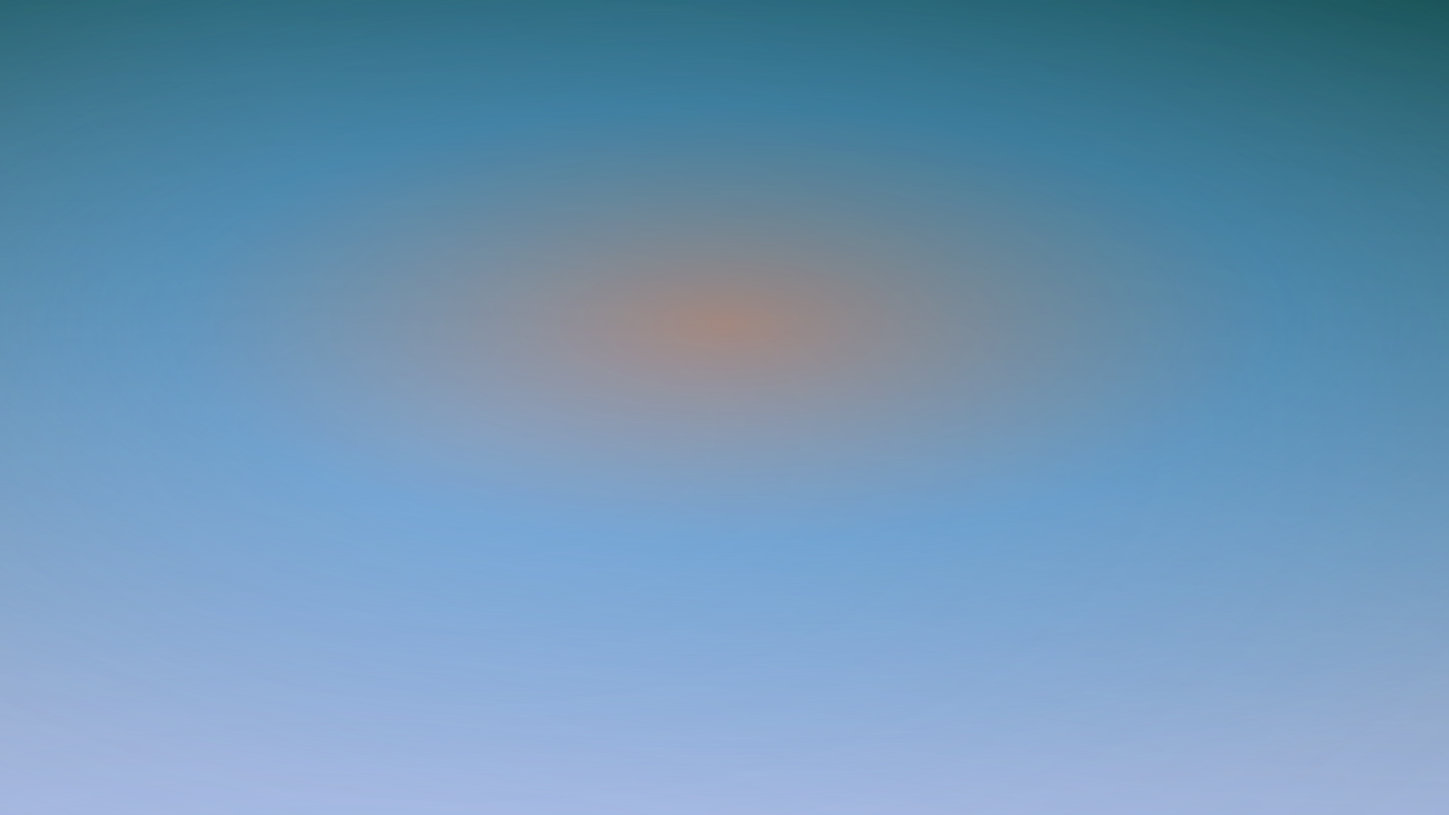
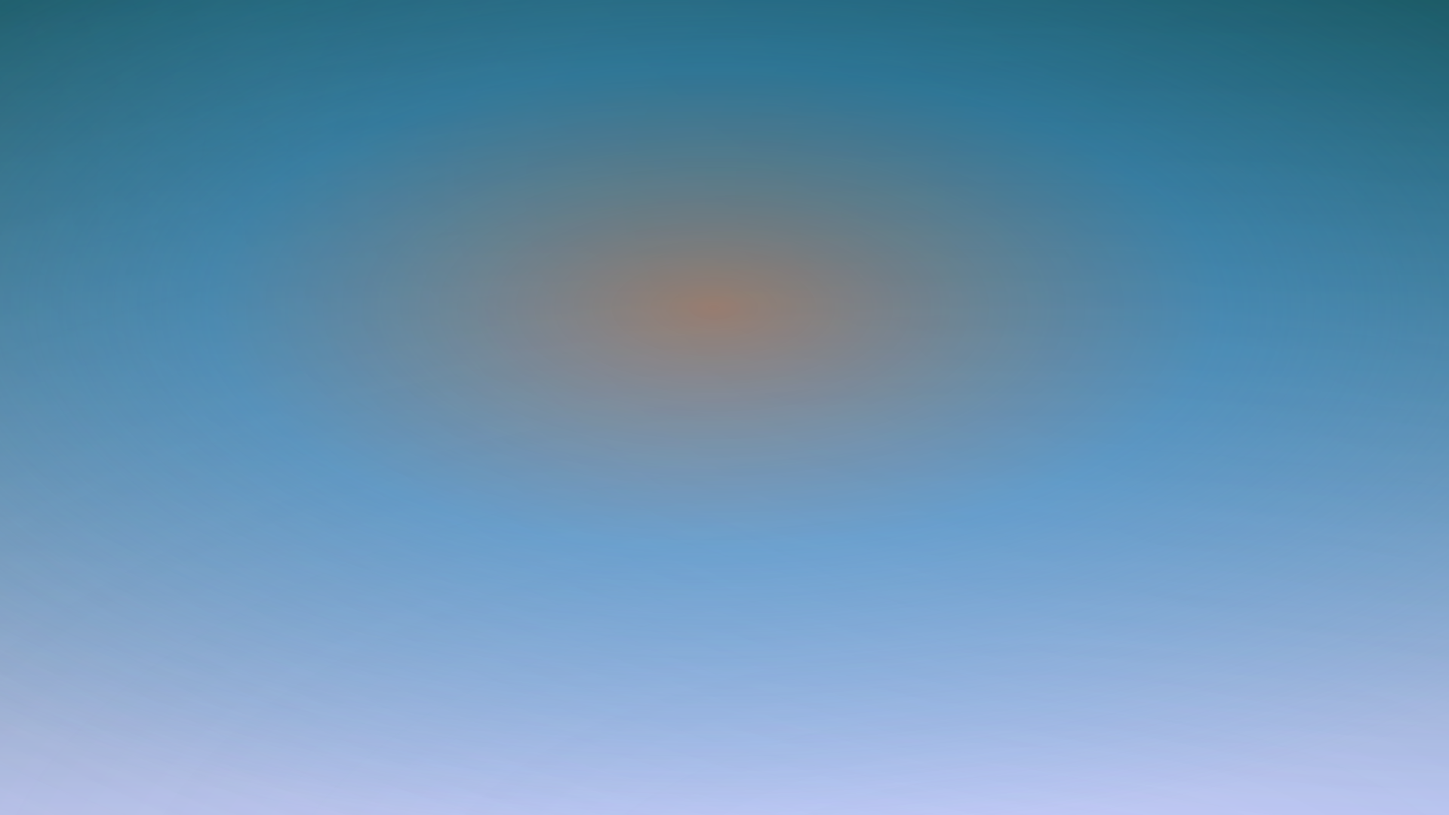
Deploy preview for PR 14 🛫

Changed region(s): [[0.125, 0.3972, 0.3125, 0.55], [0.625, 0.9472, 1.0, 1.0]]

diff --git a/pr-preview/pr-14/posts/lessons-from-flask-in-production/index.html b/pr-preview/pr-14/posts/lessons-from-flask-in-production/index.html
@@ -1,6 +1,6 @@
 <!DOCTYPE html><html lang="en" data-astro-cid-sckkx6r4> <head><!-- Page Metadata --><meta charset="UTF-8"><meta name="viewport" content="width=device-width"><meta name="generator" content="Astro v4.2.4"><meta name="description" content="stefan nowak, software engineer based in London, UK"><link rel="canonical" href="https://stefkn.github.io/me/pr-preview/pr-14/posts/lessons-from-flask-in-production/"><title>Lessons from Flask in production</title><!-- Google Fonts --><link rel="preconnect" href="https://fonts.googleapis.com"><link rel="preconnect" href="https://fonts.gstatic.com" crossorigin><link href="https://fonts.googleapis.com/css2?family=IBM+Plex+Mono:ital,wght@0,100;0,200;0,300;0,400;0,500;0,600;0,700;1,100;1,200;1,300;1,400;1,500;1,600;1,700&family=IBM+Plex+Sans:ital,wght@0,100;0,200;0,300;0,400;0,500;0,600;0,700;1,100;1,200;1,300;1,400;1,500;1,600;1,700&display=swap" rel="stylesheet"><!-- Low Priority Global Metadata --><link rel="icon" type="image/png" href="/me/pr-preview/pr-14/favicon.png"><link rel="sitemap" href="/me/pr-preview/pr-14/sitemap-index.xml"><link rel="alternate" type="application/rss+xml" href="/me/pr-preview/pr-14/rss.xml" title="RSS"><!-- Open Graph / Facebook --><meta property="og:type" content="website"><meta property="og:url" content="https://stefkn.github.io/me/pr-preview/pr-14/posts/lessons-from-flask-in-production/"><meta property="og:title" content="Lessons from Flask in production"><meta property="og:description" content="stefan nowak, software engineer based in London, UK"><meta property="og:image" content="https://stefkn.github.io/me/pr-preview/pr-14/generated/art/lessons-from-flask-in-production.png"><meta property="og:image:alt" content="Lessons from Flask in production"><!-- X/Twitter --><meta property="twitter:card" content="summary_large_image"><meta property="twitter:url" content="https://stefkn.github.io/me/pr-preview/pr-14/posts/lessons-from-flask-in-production/"><meta property="twitter:title" content="Lessons from Flask in production"><meta property="twitter:description" content="stefan nowak, software engineer based in London, UK"><meta property="twitter:image" content="https://stefkn.github.io/me/pr-preview/pr-14/generated/art/lessons-from-flask-in-production.png"><meta name="twitter:image:alt" content="Lessons from Flask in production"><meta name="astro-view-transitions-enabled" content="true"><meta name="astro-view-transitions-fallback" content="animate"><link rel="stylesheet" href="/me/pr-preview/pr-14/_astro/index.VyLwYA5J.css" />
-<link rel="stylesheet" href="/me/pr-preview/pr-14/_astro/_slug_.KOeODvqg.css" /><script type="module" src="/me/pr-preview/pr-14/_astro/hoisted.HxuV51EW.js"></script>
-<script type="module" src="/me/pr-preview/pr-14/_astro/page.Jay7wAFe.js"></script></head> <body data-astro-cid-sckkx6r4> <a id="main-icon-link" href="/me/pr-preview/pr-14/" data-astro-cid-sckkx6r4> <img id="site-icon" src="/me/pr-preview/pr-14/favicon.png" data-astro-cid-sckkx6r4> </a> <div class="navmenu-container" id="nav-menu" data-astro-cid-sckkx6r4> <div data-astro-cid-sckkx6r4> <div id="top-nav-links" class="nav-links" data-astro-cid-sckkx6r4> <a href="/me/pr-preview/pr-14/work" class="nav-link" data-astro-cid-sckkx6r4>work</a> <a href="/me/pr-preview/pr-14/posts" class="nav-link" data-astro-cid-sckkx6r4>posts</a> </div> </div> <button id="theme-toggle" aria-label="Toggle light/dark mode" data-astro-cid-x3pjskd3> <svg id="sun-icon" xmlns="http://www.w3.org/2000/svg" width="24" height="24" viewBox="0 0 24 24" fill="white" stroke="white" stroke-width="2" stroke-linecap="round" stroke-linejoin="round" class="feather feather-sun hidden" data-astro-cid-x3pjskd3><circle cx="12" cy="12" r="5" data-astro-cid-x3pjskd3></circle><line x1="12" y1="1" x2="12" y2="3" data-astro-cid-x3pjskd3></line><line fill="white" x1="12" y1="21" x2="12" y2="23" data-astro-cid-x3pjskd3></line><line x1="4.22" y1="4.22" x2="5.64" y2="5.64" data-astro-cid-x3pjskd3></line><line x1="18.36" y1="18.36" x2="19.78" y2="19.78" data-astro-cid-x3pjskd3></line><line x1="1" y1="12" x2="3" y2="12" data-astro-cid-x3pjskd3></line><line x1="21" y1="12" x2="23" y2="12" data-astro-cid-x3pjskd3></line><line x1="4.22" y1="19.78" x2="5.64" y2="18.36" data-astro-cid-x3pjskd3></line><line x1="18.36" y1="5.64" x2="19.78" y2="4.22" data-astro-cid-x3pjskd3></line></svg> <svg id="moon-icon" xmlns="http://www.w3.org/2000/svg" width="24" height="24" viewBox="0 0 24 24" fill="black" stroke="black" stroke-width="2" stroke-linecap="round" stroke-linejoin="round" class="feather feather-moon hidden" data-astro-cid-x3pjskd3><path d="M21 12.79A9 9 0 1 1 11.21 3 7 7 0 0 0 21 12.79z" data-astro-cid-x3pjskd3></path></svg> </button>    </div>  <div id="section-indicator" aria-hidden="true" data-astro-cid-5o3hoiww> <div class="section-indicator-inner" data-astro-cid-5o3hoiww> <span class="section-indicator-eyebrow" data-astro-cid-5o3hoiww>now reading</span> <span id="section-indicator-text" data-astro-cid-5o3hoiww></span> </div> </div>   <div class="hero-art" data-art-config="{&#34;seed&#34;:1289067675,&#34;width&#34;:1920,&#34;height&#34;:1080,&#34;background&#34;:&#34;#07413a&#34;,&#34;backgroundBottom&#34;:&#34;#d3d1fa&#34;,&#34;accent&#34;:&#34;#f17331&#34;,&#34;palette&#34;:[&#34;#07413a&#34;,&#34;#309be7&#34;,&#34;#d3d1fa&#34;,&#34;#f17331&#34;],&#34;neon&#34;:[&#34;#0096d6&#34;,&#34;#1499ff&#34;,&#34;#529dff&#34;,&#34;#8fb0ff&#34;],&#34;fields&#34;:[{&#34;id&#34;:&#34;f0&#34;,&#34;cx&#34;:1.1003727405332029,&#34;cy&#34;:-0.16896952548995614,&#34;rx&#34;:2.174972215318121,&#34;ry&#34;:1.8729176508262753,&#34;colors&#34;:[&#34;#07413a&#34;,&#34;#309be7&#34;],&#34;opacity&#34;:0.266493626916781,&#34;driftAmp&#34;:0.4726079177809879,&#34;driftSpeed&#34;:0.10144984308863059,&#34;driftSpeedY&#34;:0.23564763814210893,&#34;hueDrift&#34;:0,&#34;phase&#34;:4.785385416544971},{&#34;id&#34;:&#34;f1&#34;,&#34;cx&#34;:0.24149369727820158,&#34;cy&#34;:1.2555613671429455,&#34;rx&#34;:2.0470582268899307,&#34;ry&#34;:1.671228754054755,&#34;colors&#34;:[&#34;#309be7&#34;,&#34;#d3d1fa&#34;],&#34;opacity&#34;:0.19034031936898826,&#34;driftAmp&#34;:0.36865451410412786,&#34;driftSpeed&#34;:0.08791864548576996,&#34;driftSpeedY&#34;:0.19677526607876644,&#34;hueDrift&#34;:0,&#34;phase&#34;:3.5590207532828053},{&#34;id&#34;:&#34;f2&#34;,&#34;cx&#34;:0.3299827938899398,&#34;cy&#34;:0.5282354289665818,&#34;rx&#34;:2.400291596772149,&#34;ry&#34;:2.2618817636510355,&#34;colors&#34;:[&#34;#d3d1fa&#34;,&#34;#07413a&#34;],&#34;opacity&#34;:0.2752876253449358,&#34;driftAmp&#34;:0.511438780510798,&#34;driftSpeed&#34;:0.09151455468032509,&#34;driftSpeedY&#34;:0.08689278801903129,&#34;hueDrift&#34;:0,&#34;phase&#34;:0.9637936207985973},{&#34;id&#34;:&#34;f3&#34;,&#34;cx&#34;:0.498886951082386,&#34;cy&#34;:0.39798511574044826,&#34;rx&#34;:0.8557732773479074,&#34;ry&#34;:0.5924584227846935,&#34;colors&#34;:[&#34;#f17331&#34;,&#34;#309be7&#34;],&#34;opacity&#34;:0.37930199124384667,&#34;driftAmp&#34;:0.1752439889870584,&#34;driftSpeed&#34;:0.12195155139779672,&#34;driftSpeedY&#34;:0.14912798521108928,&#34;hueDrift&#34;:0,&#34;phase&#34;:5.1107875660506314}]}" data-astro-cid-lpwor2hp> <img class="hero-art-img" src="/me/pr-preview/pr-14/generated/art/lessons-from-flask-in-production-hero.png" alt="Lessons from Flask in production" width="1920" height="1080" data-astro-cid-lpwor2hp> <canvas class="hero-art-canvas" aria-hidden="true" data-astro-cid-lpwor2hp></canvas> <canvas class="hero-art-canvas3d" aria-hidden="true" data-astro-cid-lpwor2hp></canvas> </div>   <header class="article-header" data-astro-cid-egg7nqdx> <h1 data-astro-cid-egg7nqdx>Lessons from Flask in production</h1> <p class="lede" data-astro-cid-egg7nqdx>Thoughts from working on a monolithic Flask webapp for about five years.</p> <div class="meta" data-astro-cid-egg7nqdx> <span data-astro-cid-egg7nqdx>Stefan Nowak</span> <span class="sep" aria-hidden="true" data-astro-cid-egg7nqdx>·</span> <time datetime="2024-02-01T00:00:00.000Z" data-astro-cid-egg7nqdx>Thu Feb 01 2024</time> <span class="sep" aria-hidden="true" data-astro-cid-egg7nqdx>·</span> <span data-astro-cid-egg7nqdx>15 min read</span> </div> <ul class="tags" data-astro-cid-egg7nqdx> <li class="tag" data-astro-cid-egg7nqdx>web</li><li class="tag" data-astro-cid-egg7nqdx>python</li><li class="tag" data-astro-cid-egg7nqdx>flask</li> </ul> </header> <div id="article-content" data-astro-cid-egg7nqdx> <button id="toggle-hide-side-mobile" type="button" aria-controls="article-aside" aria-expanded="false" data-astro-cid-egg7nqdx>
+<link rel="stylesheet" href="/me/pr-preview/pr-14/_astro/_slug_.5870hIlh.css" /><script type="module" src="/me/pr-preview/pr-14/_astro/hoisted.Pu2DkZKM.js"></script>
+<script type="module" src="/me/pr-preview/pr-14/_astro/page.Jay7wAFe.js"></script></head> <body data-astro-cid-sckkx6r4> <a id="main-icon-link" href="/me/pr-preview/pr-14/" data-astro-cid-sckkx6r4> <img id="site-icon" src="/me/pr-preview/pr-14/favicon.png" data-astro-cid-sckkx6r4> </a> <div class="navmenu-container" id="nav-menu" data-astro-cid-sckkx6r4> <div data-astro-cid-sckkx6r4> <div id="top-nav-links" class="nav-links" data-astro-cid-sckkx6r4> <a href="/me/pr-preview/pr-14/work" class="nav-link" data-astro-cid-sckkx6r4>work</a> <a href="/me/pr-preview/pr-14/posts" class="nav-link" data-astro-cid-sckkx6r4>posts</a> </div> </div> <button id="theme-toggle" aria-label="Toggle light/dark mode" data-astro-cid-x3pjskd3> <svg id="sun-icon" xmlns="http://www.w3.org/2000/svg" width="24" height="24" viewBox="0 0 24 24" fill="white" stroke="white" stroke-width="2" stroke-linecap="round" stroke-linejoin="round" class="feather feather-sun hidden" data-astro-cid-x3pjskd3><circle cx="12" cy="12" r="5" data-astro-cid-x3pjskd3></circle><line x1="12" y1="1" x2="12" y2="3" data-astro-cid-x3pjskd3></line><line fill="white" x1="12" y1="21" x2="12" y2="23" data-astro-cid-x3pjskd3></line><line x1="4.22" y1="4.22" x2="5.64" y2="5.64" data-astro-cid-x3pjskd3></line><line x1="18.36" y1="18.36" x2="19.78" y2="19.78" data-astro-cid-x3pjskd3></line><line x1="1" y1="12" x2="3" y2="12" data-astro-cid-x3pjskd3></line><line x1="21" y1="12" x2="23" y2="12" data-astro-cid-x3pjskd3></line><line x1="4.22" y1="19.78" x2="5.64" y2="18.36" data-astro-cid-x3pjskd3></line><line x1="18.36" y1="5.64" x2="19.78" y2="4.22" data-astro-cid-x3pjskd3></line></svg> <svg id="moon-icon" xmlns="http://www.w3.org/2000/svg" width="24" height="24" viewBox="0 0 24 24" fill="black" stroke="black" stroke-width="2" stroke-linecap="round" stroke-linejoin="round" class="feather feather-moon hidden" data-astro-cid-x3pjskd3><path d="M21 12.79A9 9 0 1 1 11.21 3 7 7 0 0 0 21 12.79z" data-astro-cid-x3pjskd3></path></svg> </button>    </div>  <div id="section-indicator" aria-hidden="true" data-astro-cid-5o3hoiww> <div class="section-indicator-inner" data-astro-cid-5o3hoiww> <span class="section-indicator-eyebrow" data-astro-cid-5o3hoiww>now reading</span> <span id="section-indicator-text" data-astro-cid-5o3hoiww></span> </div> </div>   <div class="hero-art" data-art-config="{&#34;seed&#34;:1289067675,&#34;width&#34;:1920,&#34;height&#34;:1080,&#34;background&#34;:&#34;#07413a&#34;,&#34;backgroundBottom&#34;:&#34;#d3d1fa&#34;,&#34;accent&#34;:&#34;#f17331&#34;,&#34;palette&#34;:[&#34;#07413a&#34;,&#34;#309be7&#34;,&#34;#d3d1fa&#34;,&#34;#f17331&#34;],&#34;neon&#34;:[&#34;#0096d6&#34;,&#34;#1499ff&#34;,&#34;#529dff&#34;,&#34;#8fb0ff&#34;],&#34;fields&#34;:[{&#34;id&#34;:&#34;f0&#34;,&#34;cx&#34;:1.1003727405332029,&#34;cy&#34;:-0.16896952548995614,&#34;rx&#34;:2.174972215318121,&#34;ry&#34;:1.8729176508262753,&#34;colors&#34;:[&#34;#07413a&#34;,&#34;#309be7&#34;],&#34;opacity&#34;:0.266493626916781,&#34;driftAmp&#34;:0.4726079177809879,&#34;driftSpeed&#34;:0.10144984308863059,&#34;driftSpeedY&#34;:0.23564763814210893,&#34;hueDrift&#34;:2.5232354872860014,&#34;phase&#34;:2.329471152052332},{&#34;id&#34;:&#34;f1&#34;,&#34;cx&#34;:1.2555613671429455,&#34;cy&#34;:0.22941096918657422,&#34;rx&#34;:2.043725485447794,&#34;ry&#34;:1.5496161011978984,&#34;colors&#34;:[&#34;#309be7&#34;,&#34;#d3d1fa&#34;],&#34;opacity&#34;:0.20932725705206393,&#34;driftAmp&#34;:0.3430621516192332,&#34;driftSpeed&#34;:0.1218221996887587,&#34;driftSpeedY&#34;:0.1762940767267719,&#34;hueDrift&#34;:1.8299827938899398,&#34;phase&#34;:3.230296869802163},{&#34;id&#34;:&#34;f2&#34;,&#34;cx&#34;:0.7003887956961989,&#34;cy&#34;:1.1336642517708242,&#34;rx&#34;:2.752876253449358,&#34;ry&#34;:2.3329013822134583,&#34;colors&#34;:[&#34;#d3d1fa&#34;,&#34;#07413a&#34;],&#34;opacity&#34;:0.2025242578005418,&#34;driftAmp&#34;:0.2621637435629964,&#34;driftSpeed&#34;:0.07380532669834793,&#34;driftSpeedY&#34;:0.1643692722800188,&#34;hueDrift&#34;:1.4899255787022412,&#34;phase&#34;:4.591631137718689},{&#34;id&#34;:&#34;f3&#34;,&#34;cx&#34;:0.49245842278469354,&#34;cy&#34;:0.3781386433169246,&#34;rx&#34;:0.7933539614547044,&#34;ry&#34;:0.6565051713259891,&#34;colors&#34;:[&#34;#f17331&#34;,&#34;#309be7&#34;],&#34;opacity&#34;:0.41099528106860816,&#34;driftAmp&#34;:0.20134071042295545,&#34;driftSpeed&#34;:0.12434882851084694,&#34;driftSpeedY&#34;:0.1339026705850847,&#34;hueDrift&#34;:2.4277849150821567,&#34;phase&#34;:6.066524292801538}]}" data-astro-cid-lpwor2hp> <img class="hero-art-img" src="/me/pr-preview/pr-14/generated/art/lessons-from-flask-in-production-hero.png" alt="" width="1920" height="1080" data-astro-cid-lpwor2hp> <canvas class="hero-art-canvas" aria-hidden="true" data-astro-cid-lpwor2hp></canvas> <canvas class="hero-art-canvas3d" aria-hidden="true" data-astro-cid-lpwor2hp></canvas> </div>   <header class="article-header" data-astro-cid-egg7nqdx> <h1 data-astro-cid-egg7nqdx>Lessons from Flask in production</h1> <p class="lede" data-astro-cid-egg7nqdx>Thoughts from working on a monolithic Flask webapp for about five years.</p> <div class="meta" data-astro-cid-egg7nqdx> <span data-astro-cid-egg7nqdx>Stefan Nowak</span> <span class="sep" aria-hidden="true" data-astro-cid-egg7nqdx>·</span> <time datetime="2024-02-01T00:00:00.000Z" data-astro-cid-egg7nqdx>Thu Feb 01 2024</time> <span class="sep" aria-hidden="true" data-astro-cid-egg7nqdx>·</span> <span data-astro-cid-egg7nqdx>15 min read</span> </div> <ul class="tags" data-astro-cid-egg7nqdx> <li class="tag" data-astro-cid-egg7nqdx>web</li><li class="tag" data-astro-cid-egg7nqdx>python</li><li class="tag" data-astro-cid-egg7nqdx>flask</li> </ul> </header> <div id="article-content" data-astro-cid-egg7nqdx> <button id="toggle-hide-side-mobile" type="button" aria-controls="article-aside" aria-expanded="false" data-astro-cid-egg7nqdx>
 table of contents
 </button> <aside id="article-aside" data-astro-cid-egg7nqdx> <nav class="toc" data-astro-cid-xvrfupwn> <ul data-astro-cid-xvrfupwn> <li data-astro-cid-zekvapgs> <a href="#introduction" onclick="if (window.lenis) { event.preventDefault(); window.lenis.scrollTo('#introduction'); }" data-astro-cid-zekvapgs> Introduction </a>  </li> <li data-astro-cid-zekvapgs> <a href="#common-pitfalls" onclick="if (window.lenis) { event.preventDefault(); window.lenis.scrollTo('#common-pitfalls'); }" data-astro-cid-zekvapgs> Common pitfalls </a> <ul data-astro-cid-zekvapgs> <li data-astro-cid-zekvapgs> <a href="#chonky-view-functions" onclick="if (window.lenis) { event.preventDefault(); window.lenis.scrollTo('#chonky-view-functions'); }" data-astro-cid-zekvapgs> Chonky view functions </a>  </li> <li data-astro-cid-zekvapgs> <a href="#mutation-on-get" onclick="if (window.lenis) { event.preventDefault(); window.lenis.scrollTo('#mutation-on-get'); }" data-astro-cid-zekvapgs> Mutation on GET </a>  </li> <li data-astro-cid-zekvapgs> <a href="#observability-monitoring-and-logging" onclick="if (window.lenis) { event.preventDefault(); window.lenis.scrollTo('#observability-monitoring-and-logging'); }" data-astro-cid-zekvapgs> Observability, monitoring and logging </a>  </li> <li data-astro-cid-zekvapgs> <a href="#slow-calls-in-views" onclick="if (window.lenis) { event.preventDefault(); window.lenis.scrollTo('#slow-calls-in-views'); }" data-astro-cid-zekvapgs> Slow calls in views </a>  </li> <li data-astro-cid-zekvapgs> <a href="#orm-usage-patterns" onclick="if (window.lenis) { event.preventDefault(); window.lenis.scrollTo('#orm-usage-patterns'); }" data-astro-cid-zekvapgs> ORM usage patterns </a>  </li> <li data-astro-cid-zekvapgs> <a href="#jinja2-macro-rabbit-holes" onclick="if (window.lenis) { event.preventDefault(); window.lenis.scrollTo('#jinja2-macro-rabbit-holes'); }" data-astro-cid-zekvapgs> Jinja2 macro rabbit holes </a>  </li> <li data-astro-cid-zekvapgs> <a href="#excessive-logic-in-templates" onclick="if (window.lenis) { event.preventDefault(); window.lenis.scrollTo('#excessive-logic-in-templates'); }" data-astro-cid-zekvapgs> Excessive logic in templates </a>  </li> <li data-astro-cid-zekvapgs> <a href="#storing-large-data-structures-in-templates" onclick="if (window.lenis) { event.preventDefault(); window.lenis.scrollTo('#storing-large-data-structures-in-templates'); }" data-astro-cid-zekvapgs> Storing large data structures in templates (!?!) </a>  </li> <li data-astro-cid-zekvapgs> <a href="#i18n-headaches" onclick="if (window.lenis) { event.preventDefault(); window.lenis.scrollTo('#i18n-headaches'); }" data-astro-cid-zekvapgs> i18n headaches </a>  </li> <li data-astro-cid-zekvapgs> <a href="#non-standardised-error-handling" onclick="if (window.lenis) { event.preventDefault(); window.lenis.scrollTo('#non-standardised-error-handling'); }" data-astro-cid-zekvapgs> Non-standardised error handling </a>  </li> <li data-astro-cid-zekvapgs> <a href="#batteries-not-included" onclick="if (window.lenis) { event.preventDefault(); window.lenis.scrollTo('#batteries-not-included'); }" data-astro-cid-zekvapgs> Batteries not included </a>  </li>  </ul> </li>  </ul> <svg class="toc-progress" xmlns="http://www.w3.org/2000/svg" data-astro-cid-xvrfupwn> <path class="toc-marker" fill="none" stroke="#ff27a7" stroke-width="4" stroke-dashoffset="1" stroke-linecap="round" stroke-linejoin="round" data-astro-cid-xvrfupwn></path> </svg> </nav>   </aside> <main id="main-wrapper" class="wrapper article" data-astro-cid-egg7nqdx> <h2 id="introduction">Introduction</h2>
 <p>Anyone slightly interested in web development and software has probably heard of Django, one of the most popular web frameworks in the world. However, you may <em>not</em> have heard of <a href="https://flask.palletsprojects.com/en/3.0.x/">Flask</a>, which is a more lightweight web framework for Python. It’s roughly analagous to Django, but is smaller and leaves a lot more up to the end user – it self-identifies as a “microframework” which allows the user to integrate their own tools and libraries to best suit their use case. This means you need to choose your own ORM, templating language, authentication, etc., from the wider Flask ecosystem – which can be either a blessing or a curse.</p>

diff --git a/pr-preview/pr-14/_astro/hoisted.Pu2DkZKM.js b/pr-preview/pr-14/_astro/hoisted.Pu2DkZKM.js
@@ -1,0 +1,137 @@
+import"./ViewTransitions.astro_astro_type_script_index_0_lang.T1cABFxu.js";import"./index.PDhEm6KS.js";document.addEventListener("astro:page-load",()=>{var e=document.querySelector("main.wrapper");if(e){var r=e.querySelectorAll("p");r.forEach(function(t){t.getElementsByTagName("img").length===1&&(t.style.width="100%",t.style.gridColumn="1 / 4")})}const s=document.getElementById("toggle-hide-side-mobile"),o=document.getElementById("article-aside");if(s&&o){const t=()=>{const n=o.classList.contains("open");s.textContent=n?"hide table of contents":"table of contents",s.setAttribute("aria-expanded",String(n))};s.addEventListener("click",()=>{o.classList.toggle("open"),t()}),t()}});document.addEventListener("astro:page-load",()=>{const e=new WeakMap,r=new WeakMap;function s(){const t=document.querySelector("path.toc-marker"),n=Array.from(document.querySelectorAll("nav.toc a"));if(!n.length)return;const c=[];let i=10;n.forEach((l,u)=>{const d=l.offsetLeft,h=l.offsetTop,a=l.offsetHeight;u===0?(e.set(l,0),c.push("M",String(d),String(h),"L",String(d),String(h+a))):(i!==d&&c.push("L",String(i),String(h)),c.push("L",String(d),String(h)),t&&t.setAttribute("d",c.join(" ")),e.set(l,t.getTotalLength()),c.push("L",String(d),String(h+a))),i=d,t.setAttribute("d",c.join(" ")),r.set(l,t.getTotalLength())})}function o(){function t(){if(!document.querySelector("path.toc-marker"))return;const i=document.querySelector("path.toc-marker"),l=i.getTotalLength();let u=document.querySelectorAll("a.active"),d=l,h=0;u=document.querySelectorAll("a.active"),u.forEach(a=>{d=Math.min(d,e.get(a)),h=Math.max(h,r.get(a))}),i.style.display=u.length?"inline":"none",i.setAttribute("stroke-dasharray",`1 ${d} ${h-d} ${l}`)}function n(){if(!document.querySelector("nav.toc"))return;new ResizeObserver(()=>{s(),t()}).observe(document.querySelector("nav.toc"))}const c=new IntersectionObserver(i=>{i.forEach(l=>{if(!document.querySelector("path.toc-marker"))return;const u=l.target;if(!u)return;const d=u.getAttribute("id"),h=document.querySelector(`nav.toc li a[href="#${d}"]`);if(!h)return;const a=l.intersectionRatio>0?"add":"remove",f=document.querySelectorAll("a.active").length===1;if(a==="remove"&&f){document.querySelectorAll("a.active")[0].classList.remove("active");return}h.classList[a]("active"),t()})});n(),document.querySelectorAll("#main-wrapper>h2,#main-wrapper>h3,#main-wrapper>h4,#main-wrapper>h5,#main-wrapper>section>h2").forEach(i=>{c.observe(i)})}window.visualViewport.width>930&&(s(),o())});const I=.25,H=`#version 300 es
+void main() {
+  vec2 p = vec2((gl_VertexID == 1) ? 3.0 : -1.0, (gl_VertexID == 2) ? 3.0 : -1.0);
+  gl_Position = vec4(p, 0.0, 1.0);
+}`,$=`#version 300 es
+precision highp float;
+out vec4 outColor;
+uniform vec2 u_resolution;
+uniform float u_time;
+uniform vec3 u_colors[4];
+uniform vec3 u_accent;
+uniform float u_alpha;
+uniform float u_scroll;
+
+float hash(float n) {
+  return fract(sin(n) * 43758.5453123);
+}
+
+vec3 blobPos(int i, float t) {
+  float fi = float(i);
+  vec3 base = vec3(
+    (hash(fi * 1.7) - 0.5) * 5.0,
+    (hash(fi * 3.9) - 0.5) * 3.4,
+    hash(fi * 5.1) * 3.5 - 0.5
+  );
+  vec3 drift = vec3(
+    sin(t * (0.05 + 0.03 * hash(fi)) + fi * 1.3),
+    cos(t * (0.04 + 0.03 * hash(fi * 2.0)) + fi * 2.7),
+    sin(t * (0.03 + 0.02 * hash(fi * 3.0)) + fi * 3.9)
+  ) * 0.4;
+  return base + drift;
+}
+
+float blobRadius(int i) {
+  return 0.28 + 0.34 * hash(float(i) * 7.1);
+}
+
+float map(vec3 p, float t) {
+  float v = 0.0;
+  for (int i = 0; i < 7; i++) {
+    vec3 c = blobPos(i, t);
+    float r = blobRadius(i);
+    vec3 d = p - c;
+    v += (r * r) / max(dot(d, d), 1e-4);
+  }
+  return v;
+}
+
+int nearestBlob(vec3 p, float t) {
+  int best = 0;
+  float bestD = 1e10;
+  for (int i = 0; i < 7; i++) {
+    float d = dot(p - blobPos(i, t), p - blobPos(i, t));
+    if (d < bestD) {
+      bestD = d;
+      best = i;
+    }
+  }
+  return best;
+}
+
+void main() {
+  vec2 uv = (gl_FragCoord.xy - 0.5 * u_resolution.xy) / u_resolution.y;
+  float t = u_time;
+
+  float sc = clamp(u_scroll / 600.0, 0.0, 1.5);
+  vec3 ro = vec3(
+    sin(t * 0.08) * 0.6 + sc * 0.9,
+    cos(t * 0.06) * 0.4 - sc * 0.6,
+    -3.5 + sc * 1.6
+  );
+  vec3 rd = normalize(vec3(uv, 1.5));
+
+  float CELL = 0.2;
+  float thresh = 1.2;
+  vec3 col = vec3(0.0);
+  float trans = 1.0;
+
+  float jitter = hash(gl_FragCoord.x * 13.71 + gl_FragCoord.y * 7.93);
+  vec3 p = ro + rd * jitter * CELL;
+  for (int s = 0; s < 80; s++) {
+    vec3 q = floor(p / CELL) * CELL + 0.5 * CELL;
+    float f = map(q, t);
+    float density = smoothstep(thresh, thresh + 1.0, f);
+    float lifeHash = hash(dot(q, vec3(11.3, 17.7, 23.9)));
+    float isLife = step(lifeHash, 0.08);
+    float life = 0.5 + 0.5 * sin(t * 0.7 + lifeHash * 50.0);
+    density *= mix(1.0, life, isLife);
+    if (density > 0.003) {
+      vec3 n = vec3(0.0);
+      for (int i = 0; i < 7; i++) {
+        vec3 c = blobPos(i, t);
+        float r = blobRadius(i);
+        vec3 d = q - c;
+        float d2 = dot(d, d);
+        n += (r * r / (d2 * d2)) * d;
+      }
+      n = normalize(n + 1e-4);
+      vec3 L = normalize(vec3(-0.5, 0.4, 1.0));
+      vec3 viewDir = -rd;
+      vec3 halfVec = normalize(L + viewDir);
+      float diff = clamp(dot(n, L), 0.0, 1.0);
+      float spec = pow(max(dot(n, halfVec), 0.0), 28.0);
+      float rim = pow(1.0 - max(dot(n, viewDir), 0.0), 3.0);
+
+      float shadeT = clamp((f - thresh) / 2.5, 0.0, 1.0);
+      float jit = hash(dot(q, vec3(127.1, 311.7, 74.7)));
+      shadeT = clamp(shadeT + (jit - 0.5) * 1.4, 0.0, 1.0);
+      float fi = shadeT * 3.0;
+      int i0 = int(fi);
+      int i1 = min(i0 + 1, 3);
+      vec3 bcol = mix(u_colors[i0], u_colors[i1], fract(fi));
+      float brightJit = hash(dot(q, vec3(269.5, 183.3, 421.7)));
+      vec3 vcol =
+        bcol * (0.4 + 0.9 * diff) * (0.8 + 0.4 * brightJit) +
+        vec3(1.0) * spec * 0.45 +
+        vec3(1.0) * rim * 0.28;
+      float accentPhase = sin(t * 0.07 + dot(q, vec3(3.7, 5.3, 7.1)));
+      float accentMask = smoothstep(0.86, 0.97, accentPhase);
+      vcol = mix(vcol, u_accent, accentMask * 0.6);
+      float lum = dot(vcol, vec3(0.299, 0.587, 0.114));
+      vcol *= min(1.0, 0.72 / max(lum, 0.001));
+
+      float depth = length(q - ro);
+      vcol *= 1.0 - smoothstep(2.0, 8.0, depth) * 0.5;
+
+      float alpha = density * 0.22;
+      col += trans * vcol * alpha;
+      trans *= (1.0 - alpha);
+      if (trans < 0.02) break;
+    }
+    p += rd * CELL * 0.5;
+  }
+
+  col *= u_alpha;
+  outColor = vec4(col, 1.0);
+}`;function M(e){const r=e.replace("#","");return[parseInt(r.slice(0,2),16)/255,parseInt(r.slice(2,4),16)/255,parseInt(r.slice(4,6),16)/255]}function P(e,r,s){const o=e.createShader(r);return o?(e.shaderSource(o,s),e.compileShader(o),e.getShaderParameter(o,e.COMPILE_STATUS)?o:(console.error("[hero3d] shader compile error:",e.getShaderInfoLog(o)),e.deleteShader(o),null)):null}function O(e,r,s){const o=e.createProgram();return o?(e.attachShader(o,r),e.attachShader(o,s),e.linkProgram(o),e.getProgramParameter(o,e.LINK_STATUS)?o:(console.error("[hero3d] program link error:",e.getProgramInfoLog(o)),e.deleteProgram(o),null)):null}function z(e,r,s,o){const t=e.getContext("webgl2",{alpha:!0,antialias:!1,powerPreference:"low-power"});if(!t)return null;const n=P(t,t.VERTEX_SHADER,H),c=P(t,t.FRAGMENT_SHADER,$);if(!n||!c)return null;const i=O(t,n,c);if(!i)return null;t.useProgram(i);const l={resolution:t.getUniformLocation(i,"u_resolution"),time:t.getUniformLocation(i,"u_time"),colors:t.getUniformLocation(i,"u_colors[0]"),accent:t.getUniformLocation(i,"u_accent"),alpha:t.getUniformLocation(i,"u_alpha"),scroll:t.getUniformLocation(i,"u_scroll")},u=[];for(let f=0;f<4;f++){const m=r[f]??"#000000",[w,x,D]=M(m);u.push(w,x,D)}t.uniform3fv(l.colors,new Float32Array(u));const[d,h,a]=M(s);return t.uniform3f(l.accent,d,h,a),t.uniform1f(l.alpha,o),t.disable(t.BLEND),{resize(f,m){const w=Math.max(1,Math.round(f*I)),x=Math.max(1,Math.round(m*I));e.width=w,e.height=x,t.viewport(0,0,w,x),t.uniform2f(l.resolution,w,x)},render(f,m){t.useProgram(i),t.uniform1f(l.time,f),t.uniform1f(l.scroll,m),t.drawArrays(t.TRIANGLES,0,3)}}}function E(e,r,s){const o=e.replace("#","");let t=parseInt(o.slice(0,2),16)/255,n=parseInt(o.slice(2,4),16)/255,c=parseInt(o.slice(4,6),16)/255;const i=Math.max(t,n,c),l=Math.min(t,n,c),u=(i+l)/2,d=i-l;if(d>1e-4){const h=u>.5?d/(2-i-l):d/(i+l);let a=i===t?(n-c)/d+(n<c?6:0):i===n?(c-t)/d+2:(t-n)/d+4;a=a*60+r,a=(a%360+360)%360;const f=(1-Math.abs(2*u-1))*h,m=f*(1-Math.abs(a/60%2-1)),w=u-f/2;a<60?(t=f,n=m,c=0):a<120?(t=m,n=f,c=0):a<180?(t=0,n=f,c=m):a<240?(t=0,n=m,c=f):a<300?(t=m,n=0,c=f):(t=f,n=0,c=m),t=(t+w)*255,n=(n+w)*255,c=(c+w)*255}else t*=255,n*=255,c*=255;return`rgba(${Math.round(t)}, ${Math.round(n)}, ${Math.round(c)}, ${s})`}let L=null,S=null,v=null,p=null,g=null,b=null,y=null,A=!0;const B=window.matchMedia("(prefers-reduced-motion: reduce)").matches;function q(){L!=null&&(cancelAnimationFrame(L),L=null)}function _(){!B&&A&&!document.hidden&&S!=null?L==null&&(L=requestAnimationFrame(R)):q()}function T(){if(!v||!g||!S)return;const e=S.querySelector(".hero-art-img"),r=e?e.offsetWidth:g.width,s=e&&e.offsetHeight?e.offsetHeight:Math.round(r*(g.height/g.width)),o=r,t=s;if(v.style.width=`${r}px`,v.style.height=`${s}px`,v.width=o,v.height=t,b){const n=S.querySelector(".hero-art-canvas3d");n&&(n.style.width=`${r}px`,n.style.height=`${s}px`,b.resize(o,t))}}function C(e){if(!v||!p||!g)return;const r=v.width,s=v.height;p.clearRect(0,0,r,s);const o=p.createLinearGradient(0,0,0,s);o.addColorStop(0,g.background),o.addColorStop(1,g.backgroundBottom),p.fillStyle=o,p.fillRect(0,0,r,s);for(const t of g.fields){const n=t.cx+t.driftAmp*Math.sin(e*t.driftSpeed+t.phase),c=t.cy+t.driftAmp*Math.cos(e*t.driftSpeedY+t.phase*1.3),i=e*t.hueDrift,l=n*r,u=c*s,d=t.rx*r,h=t.ry*s,a=t.colors[1]??t.colors[0],f=t.colors[t.colors.length-1];p.save(),p.translate(l,u),p.scale(1,h/d);const m=p.createRadialGradient(0,0,0,0,0,d);m.addColorStop(0,E(t.colors[0],i,t.opacity)),m.addColorStop(.45,E(a,i,t.opacity*.75)),m.addColorStop(1,E(f,i,0)),p.fillStyle=m,p.beginPath(),p.arc(0,0,d,0,Math.PI*2),p.fill(),p.restore()}}function R(e){const r=e/1e3;C(r),b&&b.render(r,window.scrollY),S&&!S.classList.contains("is-animated")&&S.classList.add("is-animated"),L=requestAnimationFrame(R)}function k(){const e=document.querySelector(".hero-art");if(!e){q(),y&&(y.disconnect(),y=null),S=null,v=null,p=null,g=null,b=null;return}if(e.dataset.bound)return;e.dataset.bound="true";const r=e.getAttribute("data-art-config");if(!r||(S=e,g=JSON.parse(r),v=e.querySelector(".hero-art-canvas"),p=v?v.getContext("2d"):null,!v||!p))return;b=null;const s=e.querySelector(".hero-art-canvas3d");s&&(b=z(s,g.neon,g.accent,.9)),y&&y.disconnect(),A=!0,y=new IntersectionObserver(t=>{A=t[0]?.isIntersecting??!0,_()});const o=e.querySelector(".hero-art-img")??e;y.observe(o),q(),T(),C(0),b&&b.render(0,window.scrollY),S.classList.add("is-animated"),_()}document.addEventListener("astro:page-load",k);document.addEventListener("visibilitychange",_);window.addEventListener("resize",()=>{S&&(T(),C(0),b&&b.render(0,window.scrollY))});k();document.addEventListener("astro:page-load",()=>{const e=document.getElementById("section-indicator"),r=document.getElementById("section-indicator-text");if(!e||!r)return;const s=Array.from(document.querySelectorAll("#main-wrapper h2, #main-wrapper h3"));if(!s.length)return;const o=document.getElementById("main-wrapper"),t=o?o.offsetTop-window.innerHeight*.6:0,n=new Set;function c(){const a=s.find(f=>n.has(f));!a||a.textContent===r.textContent||(r.style.opacity="0",setTimeout(()=>{r.textContent=a.textContent.trim(),r.style.opacity="1"},150))}const i=new IntersectionObserver(a=>{a.forEach(f=>{f.isIntersecting?n.add(f.target):n.delete(f.target)}),c()},{rootMargin:"-20% 0px -70% 0px",threshold:0});s.forEach(a=>i.observe(a));let l=window.scrollY,u=!1;function d(){const a=window.scrollY,f=a>t&&a>l;e.classList.toggle("visible",f),l=a,u=!1}function h(){u||(requestAnimationFrame(d),u=!0)}window.addEventListener("scroll",h,{passive:!0}),h()});

diff --git a/pr-preview/pr-14/posts/index.html b/pr-preview/pr-14/posts/index.html
@@ -1,5 +1,5 @@
 <!DOCTYPE html><html lang="en" data-astro-cid-sckkx6r4> <head><!-- Page Metadata --><meta charset="UTF-8"><meta name="viewport" content="width=device-width"><meta name="generator" content="Astro v4.2.4"><meta name="description" content="stefan nowak, software engineer based in London, UK"><link rel="canonical" href="https://stefkn.github.io/me/pr-preview/pr-14/posts/"><title>Blog posts</title><!-- Google Fonts --><link rel="preconnect" href="https://fonts.googleapis.com"><link rel="preconnect" href="https://fonts.gstatic.com" crossorigin><link href="https://fonts.googleapis.com/css2?family=IBM+Plex+Mono:ital,wght@0,100;0,200;0,300;0,400;0,500;0,600;0,700;1,100;1,200;1,300;1,400;1,500;1,600;1,700&family=IBM+Plex+Sans:ital,wght@0,100;0,200;0,300;0,400;0,500;0,600;0,700;1,100;1,200;1,300;1,400;1,500;1,600;1,700&display=swap" rel="stylesheet"><!-- Low Priority Global Metadata --><link rel="icon" type="image/png" href="/me/pr-preview/pr-14/favicon.png"><link rel="sitemap" href="/me/pr-preview/pr-14/sitemap-index.xml"><link rel="alternate" type="application/rss+xml" href="/me/pr-preview/pr-14/rss.xml" title="RSS"><!-- Open Graph / Facebook --><meta property="og:type" content="website"><meta property="og:url" content="https://stefkn.github.io/me/pr-preview/pr-14/posts/"><meta property="og:title" content="Blog posts"><meta property="og:description" content="stefan nowak, software engineer based in London, UK"><meta property="og:image" content="https://stefkn.github.io/favicon.png"><meta property="og:image:alt" content="https://stefkn.github.io/me/ logo"><!-- X/Twitter --><meta property="twitter:card" content="summary_large_image"><meta property="twitter:url" content="https://stefkn.github.io/me/pr-preview/pr-14/posts/"><meta property="twitter:title" content="Blog posts"><meta property="twitter:description" content="stefan nowak, software engineer based in London, UK"><meta property="twitter:image" content="https://stefkn.github.io/favicon.png"><meta name="twitter:image:alt" content="https://stefkn.github.io/me/ logo"><meta name="astro-view-transitions-enabled" content="true"><meta name="astro-view-transitions-fallback" content="animate"><link rel="stylesheet" href="/me/pr-preview/pr-14/_astro/index.VyLwYA5J.css" />
-<style>main[data-astro-cid-at4y73ej]{margin-top:3rem}.post-index-card-image{-webkit-transition:all 2s ease;-moz-transition:all 2s ease;-ms-transition:all 2s ease;-o-transition:all 2s ease;height:auto;opacity:0;filter:grayscale(1)}.article-post img{border-radius:12px}.articles[data-astro-cid-at4y73ej]{display:grid;grid-template-columns:repeat(auto-fill,minmax(380px,2fr));grid-auto-rows:auto;justify-content:start;justify-items:stretch;gap:2rem;.article-post{overflow:hidden;grid-column:auto;padding:1rem 0rem 3rem;border-bottom-style:solid;border-top-style:solid;border-color:var(--color-border);p{margin-top:.6rem;line-height:1.2;font-size:var(--text-base)}a{color:inherit;font-weight:bolder;line-height:1;font-size:var(--text-lg);text-decoration:none}.post-date{font-size:var(--text-xs);color:var(--color-text-muted);font-family:monospace}.post-details{position:relative;margin-top:10rem;max-width:23rem;z-index:3;position:absolute}.article-image{-webkit-transition:all 1.2s ease;-moz-transition:all 1.2s ease;-ms-transition:all 1.2s ease;-o-transition:all 1.2s ease;margin:0 auto;transform:scale(1);translate:0px 0px;height:14em;mask-image:radial-gradient(ellipse 193% 51% at 65% 9%,black 30%,transparent 113%);z-index:2;&:hover{transform:scale(1.005);translate:0px -2px}@media (max-width: 650px){mask-image:radial-gradient(ellipse 63% 41% at 75% 9%,black 0%,transparent 123%)}}.article-image:hover{transform:scale(1.005);translate:0px -2px}.featured-post-label{background-color:var(--color-accent-strong);width:8rem;text-align:center;padding:.2rem .5rem;border-radius:.8rem;margin:.5rem 0;font-size:var(--text-xs);font-weight:600;color:var(--color-on-accent);box-shadow:-3px 1px 12px 1px #0039ff6b}}.hero-post{grid-column:1 / -1;.post-details{margin-top:2rem;max-width:610px;@media (max-width: 850px){margin-top:6rem;max-width:410px}}.article-image{height:22rem;mask-image:radial-gradient(ellipse 113% 91% at 125% 50%,black 60%,transparent 105%);&:hover{transform:scale(1.005);translate:0px -2px}@media (max-width: 850px){mask-image:radial-gradient(ellipse 63% 41% at 75% 9%,black 0%,transparent 123%)}}a{font-size:var(--text-xl);font-weight:600;text-decoration:none;@media (max-width: 650px){font-size:var(--text-xl)}}p{font-size:var(--text-lg);margin-top:1.23rem}}}html.dark>body>.articles[data-astro-cid-at4y73ej]>.article-post[data-astro-cid-at4y73ej]{border-color:var(--color-border)}
+<style>main[data-astro-cid-at4y73ej]{margin-top:3rem}.post-index-card-image{-webkit-transition:all 2s ease;-moz-transition:all 2s ease;-ms-transition:all 2s ease;-o-transition:all 2s ease;width:100%;height:auto;opacity:0;filter:grayscale(1)}.article-post img{border-radius:12px}.articles[data-astro-cid-at4y73ej]{display:grid;grid-template-columns:repeat(auto-fill,minmax(380px,2fr));grid-auto-rows:auto;justify-content:start;justify-items:stretch;gap:2rem;.article-post{overflow:hidden;grid-column:auto;padding:1rem 0rem 3rem;border-bottom-style:solid;border-top-style:solid;border-color:var(--color-border);p{margin-top:.6rem;line-height:1.2;font-size:var(--text-base)}a{color:inherit;font-weight:bolder;line-height:1;font-size:var(--text-lg);text-decoration:none}.post-date{font-size:var(--text-xs);color:var(--color-text-muted);font-family:monospace}.post-details{position:relative;margin-top:10rem;max-width:23rem;z-index:3;position:absolute}.article-image{-webkit-transition:all 1.2s ease;-moz-transition:all 1.2s ease;-ms-transition:all 1.2s ease;-o-transition:all 1.2s ease;margin:0 auto;transform:scale(1);translate:0px 0px;height:14em;mask-image:radial-gradient(ellipse 193% 51% at 65% 9%,black 30%,transparent 113%);z-index:2;&:hover{transform:scale(1.005);translate:0px -2px}@media (max-width: 650px){mask-image:radial-gradient(ellipse 63% 41% at 75% 9%,black 0%,transparent 123%)}}.article-image:hover{transform:scale(1.005);translate:0px -2px}.featured-post-label{background-color:var(--color-accent-strong);width:8rem;text-align:center;padding:.2rem .5rem;border-radius:.8rem;margin:.5rem 0;font-size:var(--text-xs);font-weight:600;color:var(--color-on-accent);box-shadow:-3px 1px 12px 1px #0039ff6b}}.hero-post{grid-column:1 / -1;.post-details{margin-top:2rem;max-width:610px;@media (max-width: 850px){margin-top:6rem;max-width:410px}}.article-image{height:22rem;mask-image:radial-gradient(ellipse 113% 91% at 125% 50%,black 60%,transparent 105%);&:hover{transform:scale(1.005);translate:0px -2px}@media (max-width: 850px){mask-image:radial-gradient(ellipse 63% 41% at 75% 9%,black 0%,transparent 123%)}}a{font-size:var(--text-xl);font-weight:600;text-decoration:none;@media (max-width: 650px){font-size:var(--text-xl)}}p{font-size:var(--text-lg);margin-top:1.23rem}}}html.dark>body>.articles[data-astro-cid-at4y73ej]>.article-post[data-astro-cid-at4y73ej]{border-color:var(--color-border)}
 </style><script type="module" src="/me/pr-preview/pr-14/_astro/hoisted.CDx-RcYZ.js"></script>
 <script type="module" src="/me/pr-preview/pr-14/_astro/page.Jay7wAFe.js"></script></head> <body data-astro-cid-sckkx6r4> <a id="main-icon-link" href="/me/pr-preview/pr-14/" data-astro-cid-sckkx6r4> <img id="site-icon" src="/me/pr-preview/pr-14/favicon.png" data-astro-cid-sckkx6r4> </a> <div class="navmenu-container" id="nav-menu" data-astro-cid-sckkx6r4> <div data-astro-cid-sckkx6r4> <div id="top-nav-links" class="nav-links" data-astro-cid-sckkx6r4> <a href="/me/pr-preview/pr-14/work" class="nav-link" data-astro-cid-sckkx6r4>work</a> <a href="/me/pr-preview/pr-14/posts" class="nav-link" data-astro-cid-sckkx6r4>posts</a> </div> </div> <button id="theme-toggle" aria-label="Toggle light/dark mode" data-astro-cid-x3pjskd3> <svg id="sun-icon" xmlns="http://www.w3.org/2000/svg" width="24" height="24" viewBox="0 0 24 24" fill="white" stroke="white" stroke-width="2" stroke-linecap="round" stroke-linejoin="round" class="feather feather-sun hidden" data-astro-cid-x3pjskd3><circle cx="12" cy="12" r="5" data-astro-cid-x3pjskd3></circle><line x1="12" y1="1" x2="12" y2="3" data-astro-cid-x3pjskd3></line><line fill="white" x1="12" y1="21" x2="12" y2="23" data-astro-cid-x3pjskd3></line><line x1="4.22" y1="4.22" x2="5.64" y2="5.64" data-astro-cid-x3pjskd3></line><line x1="18.36" y1="18.36" x2="19.78" y2="19.78" data-astro-cid-x3pjskd3></line><line x1="1" y1="12" x2="3" y2="12" data-astro-cid-x3pjskd3></line><line x1="21" y1="12" x2="23" y2="12" data-astro-cid-x3pjskd3></line><line x1="4.22" y1="19.78" x2="5.64" y2="18.36" data-astro-cid-x3pjskd3></line><line x1="18.36" y1="5.64" x2="19.78" y2="4.22" data-astro-cid-x3pjskd3></line></svg> <svg id="moon-icon" xmlns="http://www.w3.org/2000/svg" width="24" height="24" viewBox="0 0 24 24" fill="black" stroke="black" stroke-width="2" stroke-linecap="round" stroke-linejoin="round" class="feather feather-moon hidden" data-astro-cid-x3pjskd3><path d="M21 12.79A9 9 0 1 1 11.21 3 7 7 0 0 0 21 12.79z" data-astro-cid-x3pjskd3></path></svg> </button>    </div>  <section data-astro-cid-at4y73ej> <h1 id="page-title" class="animated" data-astro-cid-at4y73ej>posts</h1> </section> <main class="wrapper articles" data-astro-cid-at4y73ej> <div class="article-post hero-post" data-astro-cid-at4y73ej> <div class="post-details" data-astro-cid-at4y73ej> <div class="featured-post-label" data-astro-cid-at4y73ej>
 Featured post

diff --git a/pr-preview/pr-14/_astro/_slug_.5870hIlh.css b/pr-preview/pr-14/_astro/_slug_.5870hIlh.css
@@ -1,0 +1,1 @@
+ul[data-astro-cid-zekvapgs],li[data-astro-cid-zekvapgs]{margin:.2rem;padding:0;gap:.3rem}ul[data-astro-cid-zekvapgs]{list-style:none;list-style-type:none;display:grid;padding-left:1.2rem}li[data-astro-cid-zekvapgs]{display:grid;a{font-weight:700}}nav[data-astro-cid-xvrfupwn].toc{position:relative;font-family:monospace;margin:2rem 0rem 1rem -1rem;font-size:var(--text-sm)}.toc-progress[data-astro-cid-xvrfupwn]{position:absolute;top:-5px;left:-10px;width:100%;height:100%;pointer-events:none}path[data-astro-cid-xvrfupwn].toc-marker{transition:stroke-dasharray .3s ease;pointer-events:none}.hero-art[data-astro-cid-lpwor2hp]{position:absolute;top:0;left:0;width:100%;aspect-ratio:16 / 9;overflow:hidden;z-index:-1;-webkit-mask-image:radial-gradient(ellipse 200% 120% at 40% 0%,#000 42%,rgba(0,0,0,.7) 58%,rgba(0,0,0,.35) 70%,rgba(0,0,0,.1) 78%,transparent 83%);mask-image:radial-gradient(ellipse 200% 120% at 40% 0%,#000 42%,rgba(0,0,0,.7) 58%,rgba(0,0,0,.35) 70%,rgba(0,0,0,.1) 78%,transparent 83%)}@media (max-width: 630px){.hero-art[data-astro-cid-lpwor2hp]{aspect-ratio:10 / 13}}@media (max-width: 930px) and (min-width: 631px){.hero-art[data-astro-cid-lpwor2hp]{min-height:34rem}}.hero-art-img[data-astro-cid-lpwor2hp],.hero-art-canvas[data-astro-cid-lpwor2hp],.hero-art-canvas3d[data-astro-cid-lpwor2hp]{position:absolute;top:0;left:0;width:100%;height:100%;transform:scale(1.12)}.hero-art-img[data-astro-cid-lpwor2hp],.hero-art-canvas[data-astro-cid-lpwor2hp]{-webkit-filter:blur(18px) saturate(1.2);filter:blur(18px) saturate(1.2)}.hero-art-canvas3d[data-astro-cid-lpwor2hp]{-webkit-filter:blur(6px) saturate(1.4);filter:blur(6px) saturate(1.4);mix-blend-mode:plus-lighter}.hero-art-img[data-astro-cid-lpwor2hp]{object-fit:cover;opacity:1;transition:opacity 2s ease}.hero-art-canvas[data-astro-cid-lpwor2hp],.hero-art-canvas3d[data-astro-cid-lpwor2hp]{opacity:0;transition:opacity 2s ease}.hero-art[data-astro-cid-lpwor2hp].is-animated .hero-art-img[data-astro-cid-lpwor2hp]{opacity:0}.hero-art[data-astro-cid-lpwor2hp].is-animated .hero-art-canvas[data-astro-cid-lpwor2hp],.hero-art[data-astro-cid-lpwor2hp].is-animated .hero-art-canvas3d[data-astro-cid-lpwor2hp]{opacity:1}@media (prefers-reduced-motion: reduce){.hero-art-img[data-astro-cid-lpwor2hp],.hero-art-canvas[data-astro-cid-lpwor2hp],.hero-art-canvas3d[data-astro-cid-lpwor2hp]{transition:none}}#section-indicator[data-astro-cid-5o3hoiww]{position:fixed;top:0;left:0;right:0;z-index:8;pointer-events:none;background:var(--color-bg);border-bottom:1px solid var(--color-border);transform:translateY(-100%);opacity:0;transition:transform .3s ease,opacity .3s ease}#section-indicator[data-astro-cid-5o3hoiww].visible{transform:translateY(0);opacity:1}.section-indicator-inner[data-astro-cid-5o3hoiww]{max-width:750px;margin:auto;padding:.9rem 1rem;display:flex;align-items:baseline;gap:.75rem;font-family:IBM Plex Mono,monospace;@media (max-width: 830px){padding-left:4.5rem}}.section-indicator-eyebrow[data-astro-cid-5o3hoiww]{flex:none;font-size:var(--text-xs);text-transform:uppercase;letter-spacing:.08em;color:var(--color-text-muted)}#section-indicator-text[data-astro-cid-5o3hoiww]{font-size:var(--text-sm);color:var(--color-accent);white-space:nowrap;overflow:hidden;text-overflow:ellipsis;transition:opacity .2s ease}@media (prefers-reduced-motion: reduce){#section-indicator[data-astro-cid-5o3hoiww],#section-indicator-text[data-astro-cid-5o3hoiww]{transition:none}}.article-header[data-astro-cid-egg7nqdx]{position:relative;z-index:1;max-width:46rem;margin:0 auto;padding:8rem 1.5rem 6rem;text-align:center}.article-header[data-astro-cid-egg7nqdx]:before{content:"";position:absolute;inset:-4rem 0;z-index:-1;background:radial-gradient(ellipse 55% 62% at 50% 42%,rgb(0 0 0 / .4),transparent 72%);pointer-events:none}.article-header[data-astro-cid-egg7nqdx] h1[data-astro-cid-egg7nqdx]{margin:0;color:#fff;font-size:var(--text-xl);line-height:1.05;letter-spacing:-.02em;text-shadow:0 2px 28px rgb(0 0 0 / .4)}.article-header[data-astro-cid-egg7nqdx] .lede[data-astro-cid-egg7nqdx]{margin:1.25rem auto 0;max-width:36rem;color:#ffffffe6;font-size:var(--text-lg);line-height:1.4;font-weight:300}.article-header[data-astro-cid-egg7nqdx] .meta[data-astro-cid-egg7nqdx]{margin-top:1.75rem;display:flex;align-items:center;justify-content:center;flex-wrap:wrap;column-gap:.6rem;row-gap:.25rem;color:#ffffffb8;font-family:IBM Plex Mono,monospace;font-size:var(--text-sm)}.article-header[data-astro-cid-egg7nqdx] .meta[data-astro-cid-egg7nqdx] .sep[data-astro-cid-egg7nqdx]{opacity:.5}.article-header[data-astro-cid-egg7nqdx] .tags[data-astro-cid-egg7nqdx]{list-style:none;display:flex;flex-wrap:wrap;justify-content:center;gap:.5rem;margin:1.5rem 0 0;padding:0}.article-header[data-astro-cid-egg7nqdx] .tag[data-astro-cid-egg7nqdx]{font-family:IBM Plex Mono,monospace;font-size:var(--text-xs);padding:.2rem .65rem;border-radius:999px;border:1px solid rgb(255 255 255 / .4);color:#ffffffe6;background:#ffffff1f}#article-content[data-astro-cid-egg7nqdx]{display:grid;grid-template-columns:minmax(0,56ch) 15rem;column-gap:4rem;justify-content:center;margin:0 auto;padding:2rem 1.5rem 12rem;align-items:start;@media (max-width: 930px){grid-template-columns:minmax(0,1fr);padding-bottom:6rem}}#main-wrapper[data-astro-cid-egg7nqdx]{grid-column:1;grid-row:1;max-width:none;margin:0;padding:0;min-width:0;line-height:1.65;h2{margin-top:3rem}h3{margin-top:2.4rem}p{margin-top:1.5rem}p a{color:var(--color-accent)}}#main-wrapper[data-astro-cid-egg7nqdx] img{height:auto!important;width:100%;margin-top:2.2rem}body>main[data-astro-cid-egg7nqdx].article>figure[data-astro-cid-egg7nqdx]>figcaption[data-astro-cid-egg7nqdx]>p[data-astro-cid-egg7nqdx]{margin-top:.5rem;font-size:var(--text-xs)}#article-aside[data-astro-cid-egg7nqdx]{grid-column:2;grid-row:1;position:sticky;top:5rem;max-height:calc(100vh - 6rem);overflow:auto}#toggle-hide-side-mobile[data-astro-cid-egg7nqdx]{grid-column:1 / -1;display:none;background:var(--color-accent-strong);border:none;color:var(--color-on-accent);height:42px;width:100%;border-radius:.5rem;padding:0;font-size:var(--text-sm);cursor:pointer;margin:0 0 1.5rem}@media (max-width: 930px){#toggle-hide-side-mobile[data-astro-cid-egg7nqdx]{display:inline-block;grid-column:1;grid-row:1}#article-aside[data-astro-cid-egg7nqdx]{grid-column:1;grid-row:2;display:none;position:static;top:0;max-height:none;overflow:visible;margin-top:1.5rem}#article-aside[data-astro-cid-egg7nqdx].open{display:block}#main-wrapper[data-astro-cid-egg7nqdx]{grid-column:1;grid-row:3}}@media (max-width: 630px){.article-header[data-astro-cid-egg7nqdx]{padding:5rem 1.25rem 3rem}}
